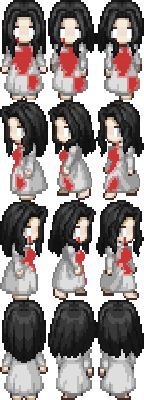
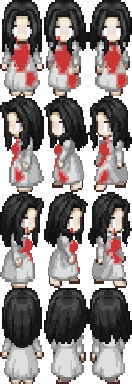
소스적용

diff --git a/src/main/java/org/game/map/Player.java b/src/main/java/org/game/map/Player.java
@@ -74,19 +74,15 @@ public class Player extends Circle implements DrawableObject {
         this.isTurnOnFlash = ! this.isTurnOnFlash;
     }
     
-    public Polygon projectLight() {
-        return projectLight(Math.toRadians(25));
-    }
-    
-    private Polygon projectLight(double rangeAngle) { 
+    private Polygon projectLight(Point2D pos, double ang) { 
         if ( ! isTurnOnFlash) {
             return null;
         }
         
         List<Point2D> l = new ArrayList<>();
-        l.add(getPosition());
+        l.add(pos);
         
-        for (Point2D e : Raycast.getRaycast(getPosition(), getAngle(), map.getWall2())) {  
+        for (Point2D e : Raycast.getRaycast(pos, ang, map.getWall2())) {  
             l.add(e);    
         }
         
@@ -116,8 +112,8 @@ public class Player extends Circle implements DrawableObject {
         return dir.sub(getPosition()).getAngle();
     }
     
-    private java.awt.Polygon pr() {
-        Polygon p = projectLight();
+    private java.awt.Polygon pr(Point2D pos, double angle) {
+        Polygon p = projectLight(pos, angle);
         
         return new java.awt.Polygon(p.getXPoints(), p.getYPoints(), p.getPoints().size());
     }
@@ -142,26 +138,27 @@ public class Player extends Circle implements DrawableObject {
         
         if (isTurnOnFlash) {
             
-            RadialGradientPaint paint = new RadialGradientPaint(x, y, 400f,
+
+            java.awt.Polygon arc = pr(getPosition(), getAngle()); 
+
+            g2d.setClip(arc); // 밝은 영역
+            map.draw(c, g2d); // 그 부분만 그려짐
+            g2d.setPaint(new RadialGradientPaint(x, y, 400f,
                                                                 new float[] { 0.7f, 1f },
                                                                 new Color[] {
                                                                     new Color(0, 0, 0, (int) (255 * 0)),
                                                                     new Color(0, 0, 0, (int) (255 * dark))
-                                                                });
-        
-            java.awt.Polygon arc = pr(); 
+                                                                })); // 그라데이션 삽입
+            g2d.fill(arc); // 채움 
             
-            g2d.setClip(arc);
-            map.draw(c, g2d); // 밝은부분만 그려짐
-            g2d.setPaint(paint);
-            g2d.fill(arc);
-            g2d.setClip(null);
+            
+            g2d.setClip(null); // 초기화
             
             //g2d.drawImage(Main.draw(g2d, x, y, dx, dy, 0.3, Color.black, Color.black), 0, 0, null);
         } 
         
         
-        g2d.drawImage(sp.getSprite("player.png", (int) (i % 3), getGridIndex(), 42, 92), (int) x - rad / 2, (int) y - rad, null);
+        g2d.drawImage(sp.getSprite("player.png", (int) (i % 3), getGridIndex(), 36, 82), (int) x - rad / 2, (int) y - rad, null);
         
         //g2d.setColor(Color.CYAN);
         //g2d.drawLine((int) x , (int) y, dx, dy);

diff --git a/src/main/java/org/game/map/Ghost.java b/src/main/java/org/game/map/Ghost.java
@@ -36,9 +36,7 @@ public class Ghost implements DrawableObject {
     
     @Override
     public void draw(GameLoop c, Graphics2D g2d) {
-        
-        
-        g2d.drawImage(sp.getSprite("ghost.png", (int) (i % 3), getGridIndex(), 48, 100), (int) pos.getX() - 16, (int) pos.getY() - 16, null);
+        g2d.drawImage(sp.getSprite("ghost.png", (int) (i % 3), getGridIndex(), 44, 96), (int) pos.getX() - 16, (int) pos.getY() - 16, null);
         
     }
     

diff --git a/src/main/java/org/game/Game.java b/src/main/java/org/game/Game.java
@@ -17,7 +17,6 @@ import java.util.ArrayList;
 import java.util.LinkedList;
 import java.util.List;
 import javax.imageio.ImageIO;
-import org.game.map.Light;
 import org.game.map.Map;
 import org.game.map.Player;
 
